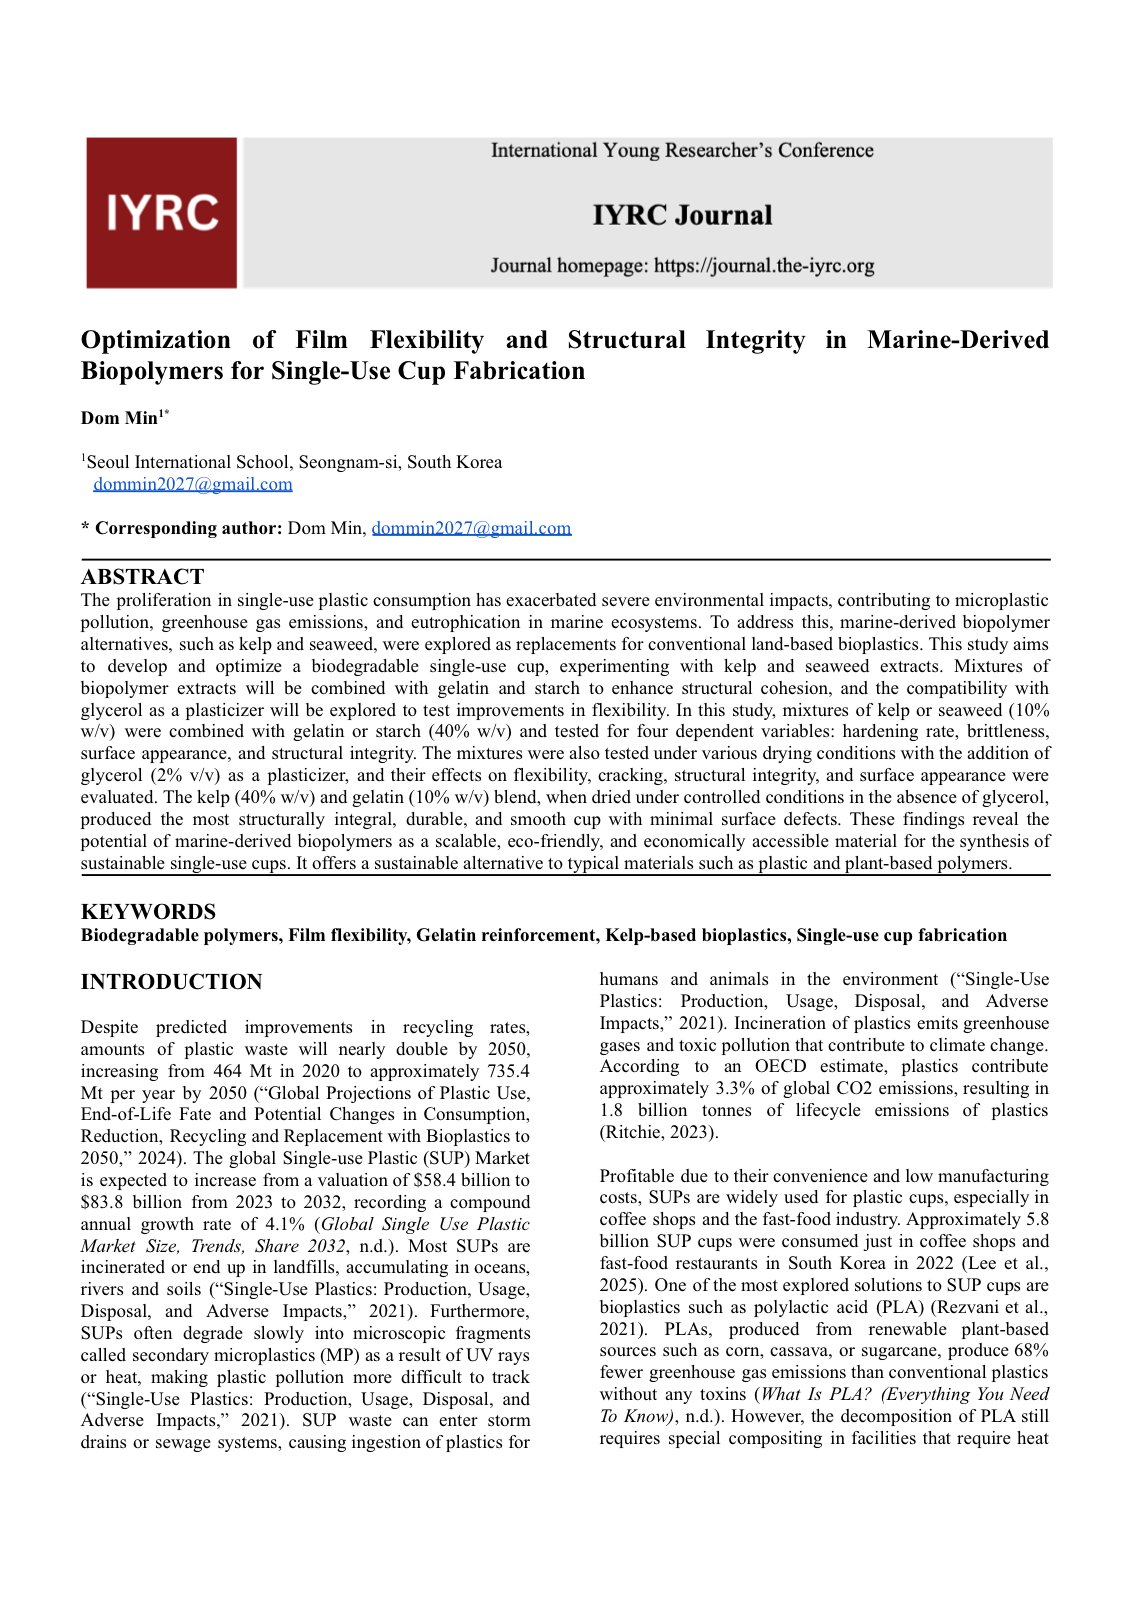
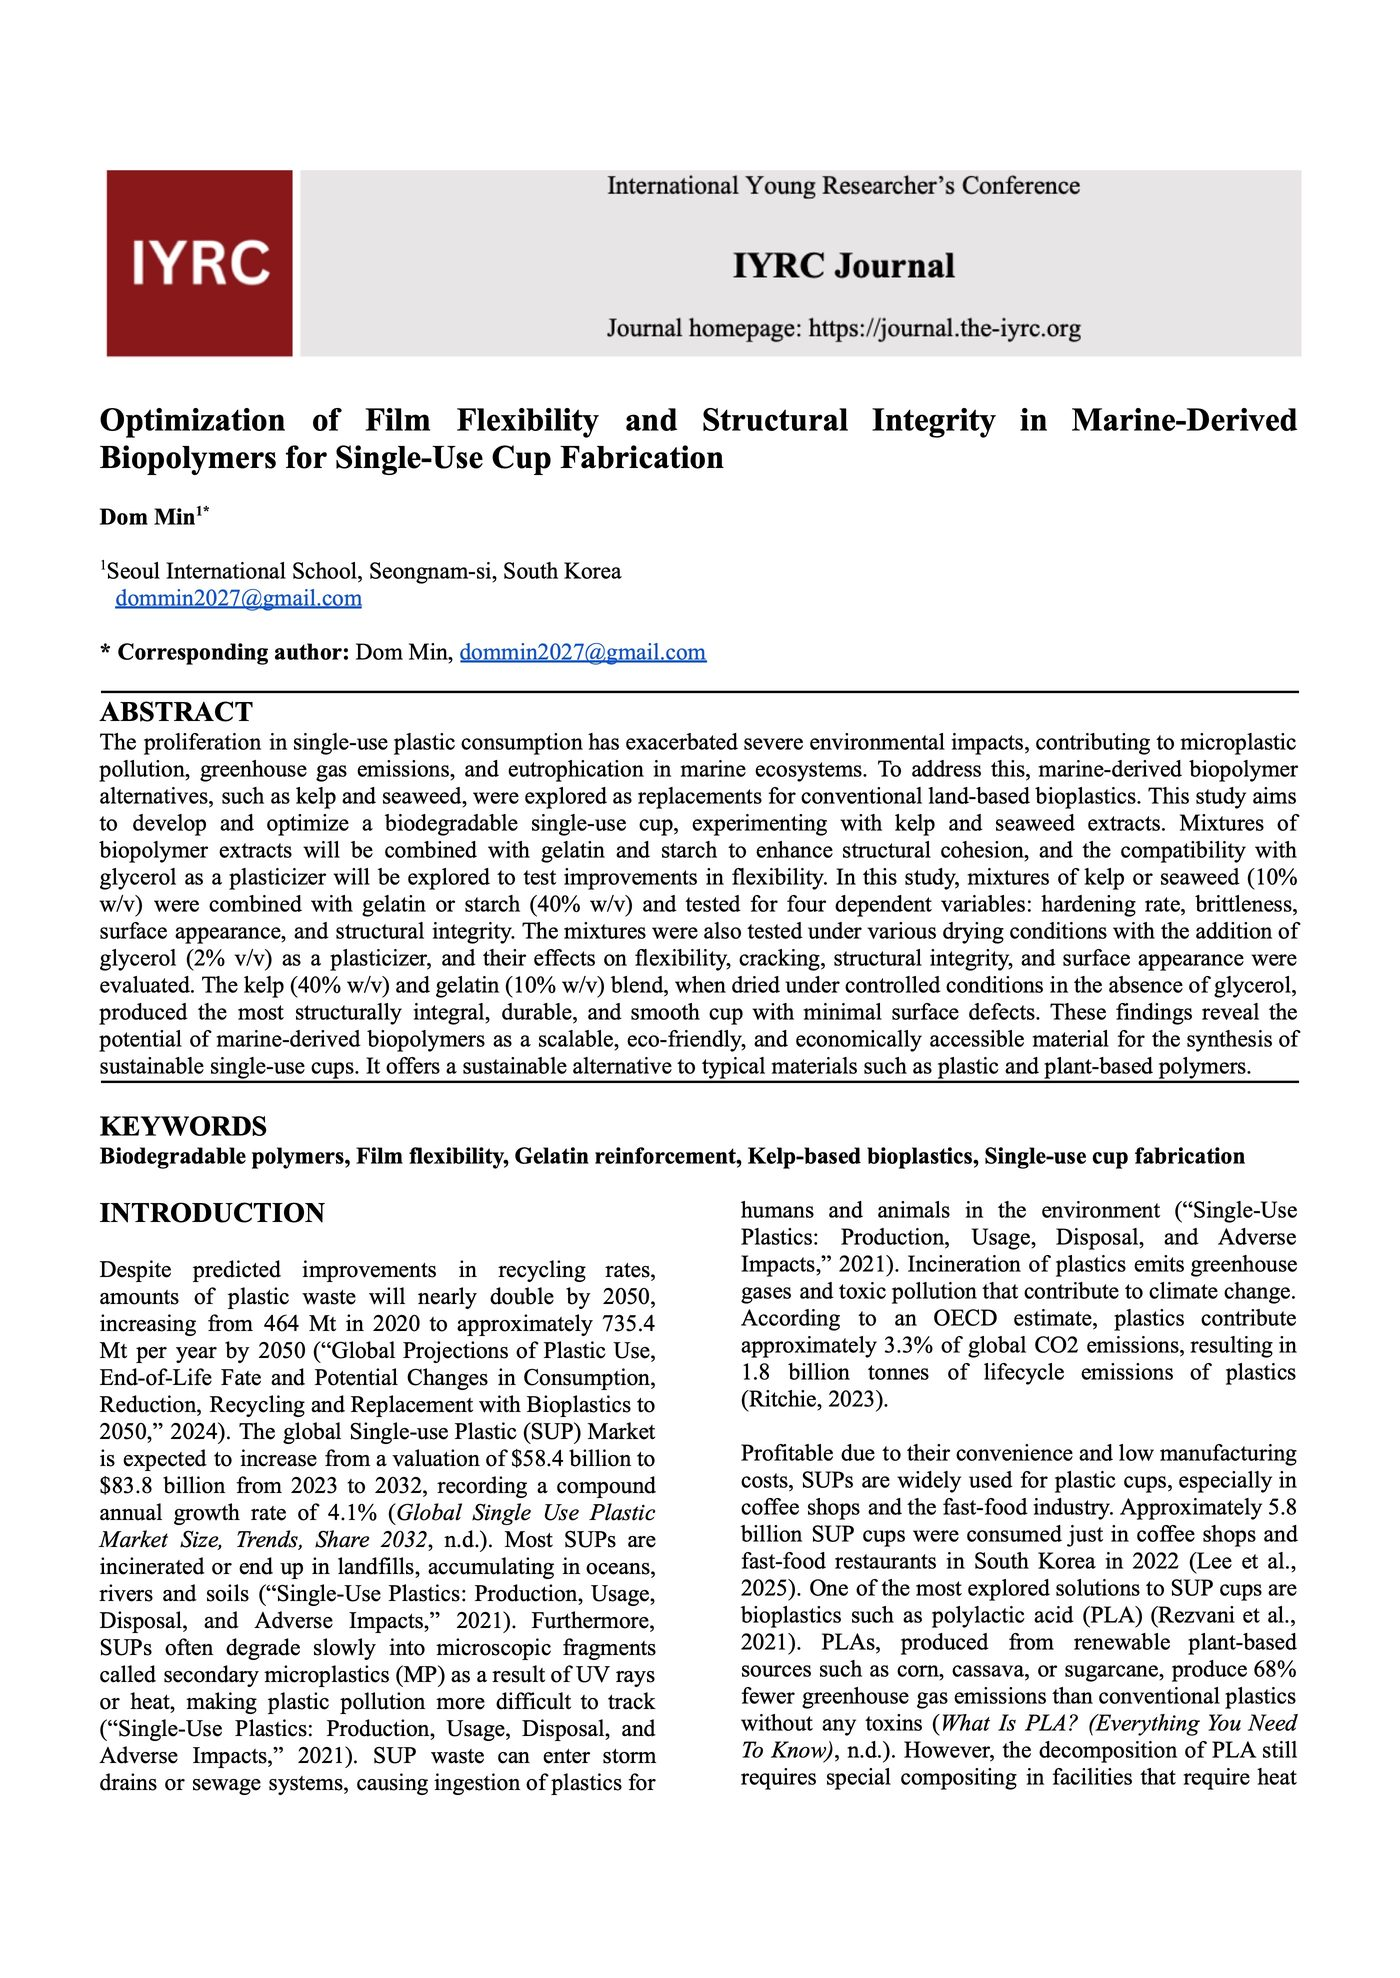
Rework research section: paper reads in place, photos and notes beside it
Render the 5 paper pages as images in a scrollable panel on the left
(no PDF viewer, so no focus jump and it works on phones), put lab photos
and the research notes link on the right, label the section as research,
and stop section paragraph styles from enlarging small captions.

diff --git a/environmental.html b/environmental.html
@@ -65,9 +65,9 @@
 
   <!-- Research -->
   <section class="section">
-    <div class="section-head">
+    <div class="section-head" data-kind="Research">
       <h2>Marine-derived biopolymers for single-use cups</h2>
-      <span class="role">Suwon University · 2025</span>
+      <span class="role">Research paper · Suwon University · 2025</span>
     </div>
     <div class="badges">
       <span class="badge">KSEF Silver Medal</span>
@@ -75,23 +75,29 @@
     </div>
     <p>[Add 1-2 sentences about the research.]</p>
 
-    <!-- the PDF viewer only loads on click: browsers focus it on load and jump the page down to it -->
-    <div class="embed pdf pdf-poster" style="margin-bottom:14px;" data-pdf="Min_IYRCJournal_2025.pdf">
-      <img src="images/research/paper-p1.jpg" alt="First page of the research paper">
-      <button type="button" class="btn">Read the paper here</button>
+    <div class="research-grid">
+      <!-- pages are pre-rendered images, not a PDF viewer: embedded viewers grab focus and jump the page -->
+      <div class="paper">
+        <div class="paper-pages" tabindex="0" role="region" aria-label="Research paper, 5 pages">
+          <img src="images/research/paper-p1.jpg" alt="Research paper, page 1 of 5">
+          <img src="images/research/paper-p2.jpg" alt="Research paper, page 2 of 5" loading="lazy">
+          <img src="images/research/paper-p3.jpg" alt="Research paper, page 3 of 5" loading="lazy">
+          <img src="images/research/paper-p4.jpg" alt="Research paper, page 4 of 5" loading="lazy">
+          <img src="images/research/paper-p5.jpg" alt="Research paper, page 5 of 5" loading="lazy">
+        </div>
+        <p class="embed-note">IYRC Journal · 5 pages · scroll inside to read</p>
+      </div>
+      <div class="research-side">
+        <div class="gallery research-photos">
+          <figure class="ph sq"><span class="cap">Sample preparation</span></figure>
+          <figure class="ph sq olive"><span class="cap">Biopolymer film</span></figure>
+          <figure class="ph sq"><span class="cap">Degradation test</span></figure>
+          <figure class="ph sq sand"><span class="cap">Measurement setup</span></figure>
+        </div>
+        <p class="embed-note">Lab photos (add a caption to each).</p>
+        <a class="notes-link" href="research-notes.pdf" target="_blank" rel="noopener">Research notes <span aria-hidden="true">→</span></a>
+      </div>
     </div>
-    <div class="btn-row" style="margin-bottom:22px;">
-      <a class="btn" href="Min_IYRCJournal_2025.pdf" target="_blank" rel="noopener">View the paper (PDF)</a>
-      <a class="btn ghost" href="research-notes.pdf" target="_blank" rel="noopener">Research notes</a>
-    </div>
-
-    <div class="gallery">
-      <figure class="ph sq"><span class="cap">Sample preparation</span></figure>
-      <figure class="ph sq olive"><span class="cap">Biopolymer film</span></figure>
-      <figure class="ph sq"><span class="cap">Degradation test</span></figure>
-      <figure class="ph sq sand"><span class="cap">Measurement setup</span></figure>
-    </div>
-    <p class="embed-note">Lab photos (add a caption to each).</p>
   </section>
 </main>
 
@@ -101,16 +107,5 @@
 </footer>
 <script src="reveal.js" defer></script>
 <script src="nav.js" defer></script>
-<script>
-  document.querySelectorAll('.pdf-poster').forEach(function (box) {
-    box.querySelector('button').addEventListener('click', function () {
-      var frame = document.createElement('iframe');
-      frame.src = box.dataset.pdf;
-      frame.title = 'Research paper';
-      box.classList.remove('pdf-poster');
-      box.replaceChildren(frame);
-    });
-  });
-</script>
 </body>
 </html>

diff --git a/styles.css b/styles.css
@@ -242,13 +242,23 @@ figure{margin:0;}
 .embed.map iframe{height:min(64vh,540px);}
 .embed.map.full iframe{height:calc(100dvh - 150px);}
 .embed.pdf iframe,.embed.pdf object{height:min(80vh,720px);}
-.pdf-poster{display:flex;flex-direction:column;align-items:center;gap:24px;padding:48px 16px;}
-.pdf-poster img{width:min(33vw,440px);height:auto;box-shadow:0 18px 40px -24px rgba(42,33,28,.55);}
-@media (max-width:820px){.pdf-poster img{width:min(100%,440px);}}
+.section-head[data-kind]::before{content:counter(sec,decimal-leading-zero) " / " attr(data-kind);text-transform:uppercase;letter-spacing:.12em;}
+/* research: the paper reads in place on the left, photos and notes on the right */
+.research-grid{display:grid;grid-template-columns:minmax(0,1fr) minmax(0,1fr);gap:32px;align-items:start;margin-top:8px;}
+.paper-pages{height:min(80vh,760px);overflow-y:auto;overscroll-behavior:contain;display:flex;flex-direction:column;gap:12px;padding:12px;
+  background:var(--cream-deep);border:3px solid var(--coffee);box-shadow:8px 8px 0 var(--accent);}
+.paper-pages img{width:100%;height:auto;box-shadow:0 1px 3px rgba(42,33,28,.25);}
+.research-photos{grid-template-columns:1fr 1fr;}
+.notes-link{display:inline-flex;gap:8px;margin-top:8px;font-size:20px;line-height:28px;font-weight:700;letter-spacing:-.02em;color:var(--coffee);
+  text-decoration:underline;text-decoration-thickness:2px;text-decoration-color:var(--accent);text-underline-offset:6px;transition:color .3s var(--ease);}
+.notes-link span{display:inline-block;text-decoration:none;transition:transform .3s var(--ease);}
+.notes-link:hover{color:var(--accent);}
+.notes-link:hover span{transform:translateX(4px);}
+@media (max-width:820px){.research-grid{grid-template-columns:1fr;}.paper-pages{height:70vh;}}
 .embed.video{position:relative;aspect-ratio:16/9;}
 .embed.video iframe{position:absolute;inset:0;height:100%;}
 .embed.notion iframe{height:min(80vh,760px);}
-.embed-note{font-family:var(--f-mono);font-size:12px;line-height:16px;letter-spacing:.04em;color:var(--coffee-mid);margin-top:16px;}
+.embed-note,.section p.embed-note{font-family:var(--f-mono);font-size:12px;line-height:16px;letter-spacing:.04em;color:var(--coffee-mid);margin-top:16px;}
 
 /* brew-log ledger */
 .log-wrap{max-height:62vh;overflow:auto;border:2px solid var(--coffee);border-radius:var(--radius);background:var(--cream-deep);padding:4px 10px;margin:8px 0 12px;}
